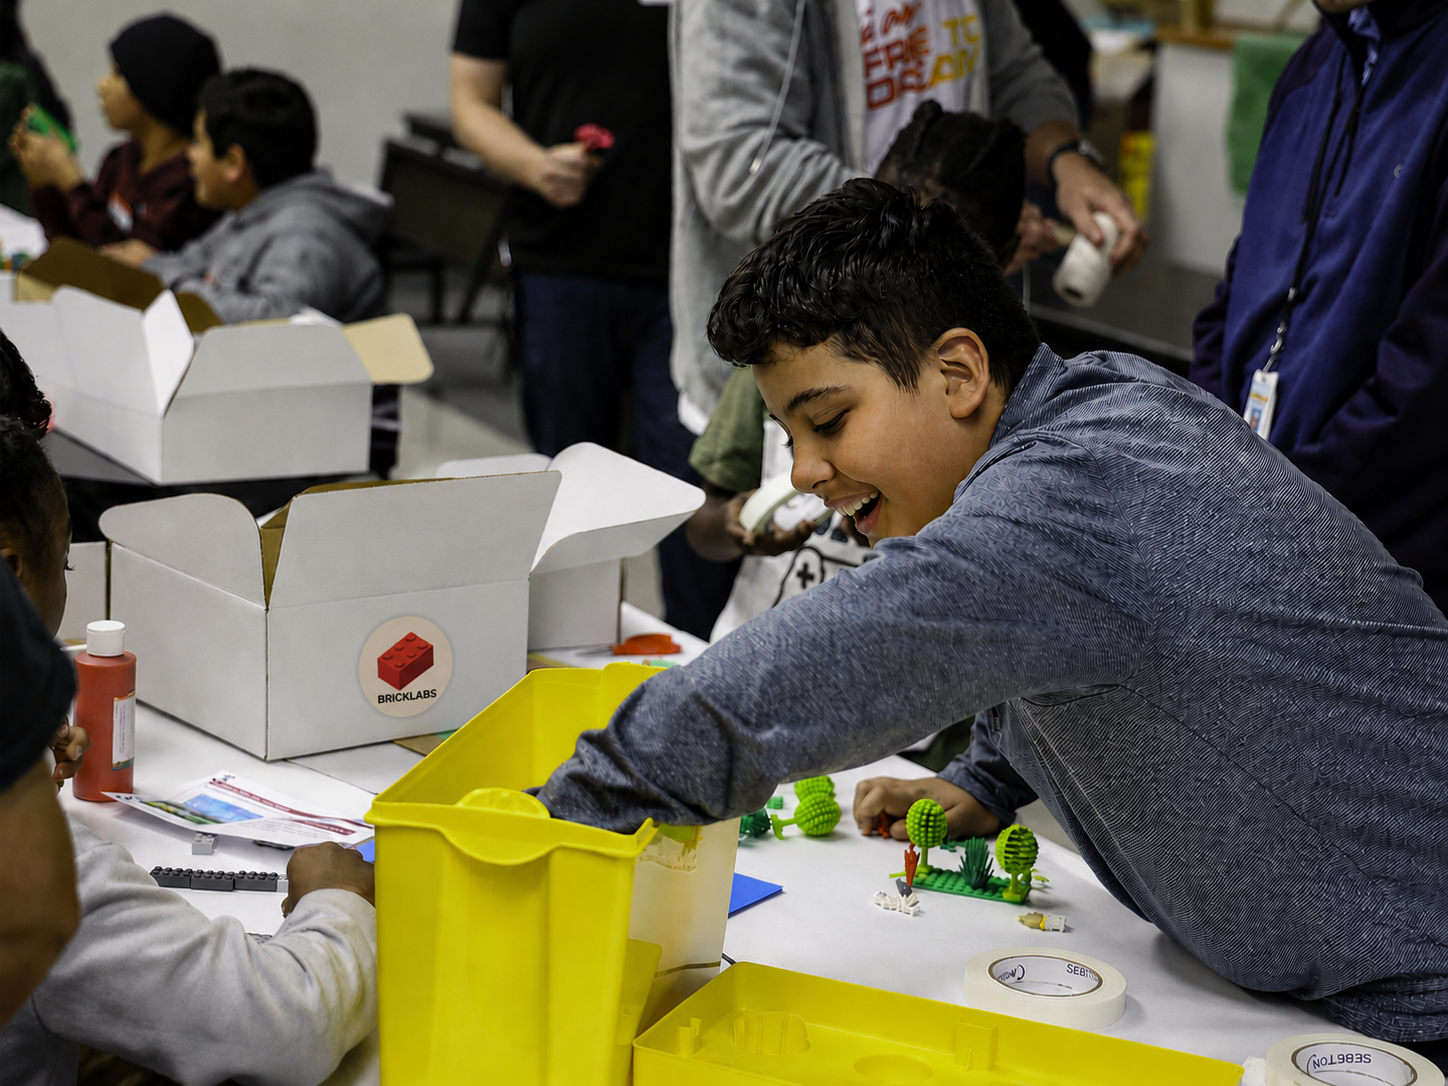
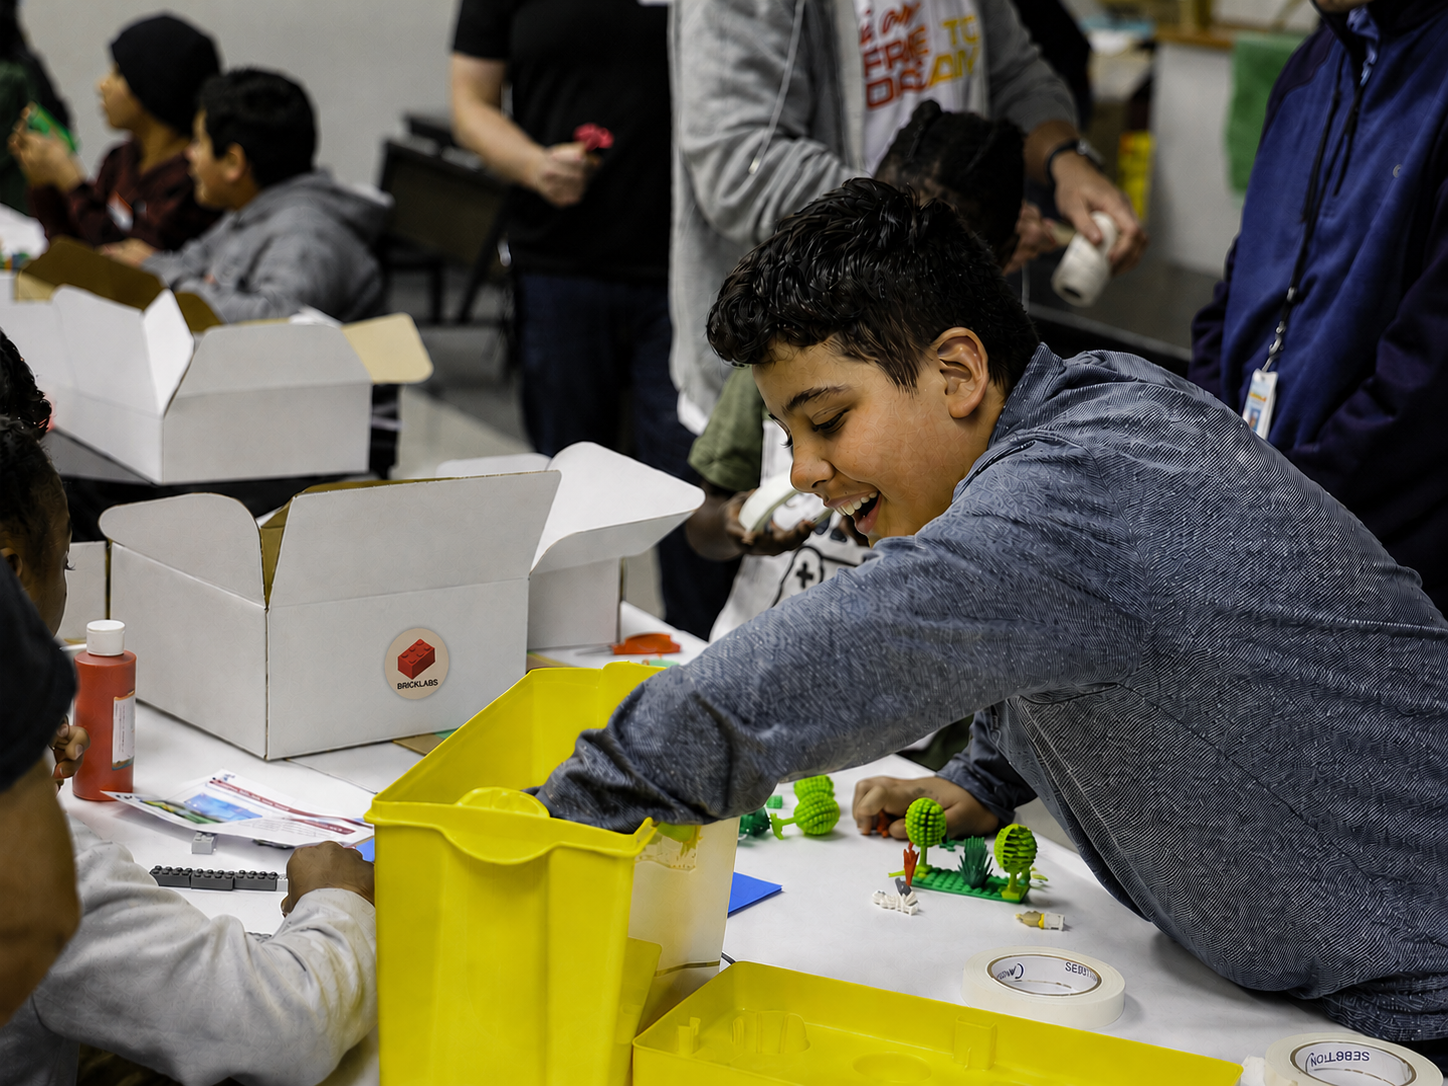
Update hero image and TikTok link

diff --git a/src/app/globals.css b/src/app/globals.css
@@ -331,6 +331,10 @@ textarea {
   max-width: 560px;
 }
 
+.hero-home .hero-copy {
+  max-width: min(560px, calc(50vw - 70px));
+}
+
 .eyebrow {
   margin: 0 0 12px;
   color: var(--ink-soft);
@@ -364,22 +368,18 @@ textarea {
 
 .hero-illustration {
   position: absolute;
-  right: max(24px, calc((100vw - 1240px) / 2));
-  bottom: 54px;
-  width: min(45vw, 600px);
+  top: 0;
+  right: 0;
+  bottom: 0;
+  width: 50%;
   overflow: hidden;
-  background: var(--paper);
-  border: 3px solid var(--ink);
-  border-radius: 24px;
-  box-shadow: var(--shadow);
-  transform: rotate(1.5deg);
+  border-left: 3px solid var(--ink);
 }
 
 .hero-illustration img {
   display: block;
   width: 100%;
-  height: auto;
-  aspect-ratio: 4 / 3;
+  height: 100%;
   object-fit: cover;
 }
 
@@ -389,6 +389,10 @@ textarea {
   gap: 10px;
   max-width: 560px;
   margin-top: 24px;
+}
+
+.hero-home .hero-stat-row {
+  max-width: min(560px, calc(50vw - 70px));
 }
 
 .hero-stat-row div {
@@ -419,6 +423,31 @@ textarea {
 .hero-stat-row p {
   flex-basis: 100%;
   margin: 2px 0 0;
+}
+
+.hero-social-link {
+  min-height: 54px;
+  display: inline-flex;
+  align-items: center;
+  gap: 8px;
+  padding: 10px 12px;
+  color: var(--ink);
+  background: rgba(255, 255, 255, 0.72);
+  border: 2px solid var(--ink);
+  border-radius: var(--radius);
+  font-size: 0.94rem;
+  font-weight: 950;
+  text-decoration: none;
+}
+
+.hero-social-link:hover {
+  background: var(--paper);
+}
+
+.hero-social-link svg {
+  width: 20px;
+  height: 20px;
+  flex: 0 0 auto;
 }
 
 .stat-section {
@@ -1502,6 +1531,41 @@ section[id] {
 }
 
 @media (max-width: 900px) {
+  .hero-home {
+    min-height: auto;
+  }
+
+  .hero-home .hero-content {
+    padding: 76px 0 540px;
+  }
+
+  .hero-illustration {
+    top: auto;
+    right: 50%;
+    bottom: 34px;
+    width: min(82vw, 620px);
+    height: auto;
+    border: 3px solid var(--ink);
+    border-radius: 24px;
+    box-shadow: var(--shadow);
+    transform: translateX(50%);
+  }
+
+  .hero-illustration img {
+    height: auto;
+    aspect-ratio: 4 / 3;
+  }
+
+  .hero-home .hero-copy {
+    max-width: 560px;
+  }
+
+  .hero-home .hero-stat-row {
+    max-width: 560px;
+  }
+}
+
+@media (max-width: 900px) {
   .desktop-nav,
   .desktop-actions {
     display: none;
@@ -1517,21 +1581,6 @@ section[id] {
 }
 
 @media (max-width: 1040px) {
-  .hero-home {
-    min-height: auto;
-  }
-
-  .hero-home .hero-content {
-    padding: 76px 0 420px;
-  }
-
-  .hero-illustration {
-    right: 50%;
-    bottom: 34px;
-    width: min(82vw, 620px);
-    transform: translateX(50%) rotate(1deg);
-  }
-
   .stat-strip,
   .card-grid.four,
   .impact-dashboard,
@@ -1606,7 +1655,7 @@ section[id] {
 
   .hero-illustration {
     width: min(92vw, 520px);
-    transform: translateX(50%) rotate(0.8deg);
+    transform: translateX(50%);
   }
 
   .section {

diff --git a/src/app/page.tsx b/src/app/page.tsx
@@ -36,6 +36,16 @@ export default function HomePage() {
               <span>{stat.label}</span>
             </div>
           ))}
+          <a
+            className="hero-social-link"
+            href={siteContent.brand.tiktokUrl}
+            target="_blank"
+            rel="noreferrer"
+            aria-label="Visit BrickLabClips on TikTok"
+          >
+            <TikTokIcon />
+            <span>@bricklabclips</span>
+          </a>
         </div>
       </Hero>
 
@@ -90,5 +100,16 @@ export default function HomePage() {
         </div>
       </section>
     </>
+  );
+}
+
+function TikTokIcon() {
+  return (
+    <svg viewBox="0 0 24 24" aria-hidden="true" focusable="false">
+      <path
+        d="M15.6 3.2c.35 2.13 1.55 3.45 3.62 3.84v3.08a7.2 7.2 0 0 1-3.58-.98v5.78c0 3.04-2.05 5.04-5.05 5.04-2.77 0-4.93-1.94-4.93-4.54 0-2.86 2.36-4.87 5.4-4.47v3.16c-1.1-.34-2.14.24-2.14 1.3 0 .89.75 1.48 1.65 1.48 1.04 0 1.72-.66 1.72-1.88V3.2h3.31Z"
+        fill="currentColor"
+      />
+    </svg>
   );
 }

diff --git a/src/data/siteContent.ts b/src/data/siteContent.ts
@@ -20,7 +20,7 @@ export const siteContent = {
     shortDescription:
       "Build ideas, school materials, and student creations from the BricklabClips community.",
     logoPath: "/images/bricklabs-logo.jpg",
-    tiktokUrl: "https://www.tiktok.com/",
+    tiktokUrl: "https://www.tiktok.com/@bricklabclips",
     siteUrl: process.env.NEXT_PUBLIC_SITE_URL || "https://bricklabclips.org"
   },
   navLinks: [
